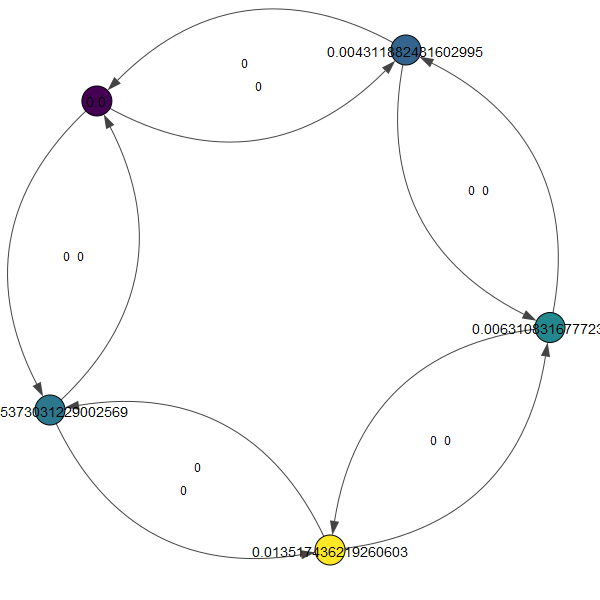
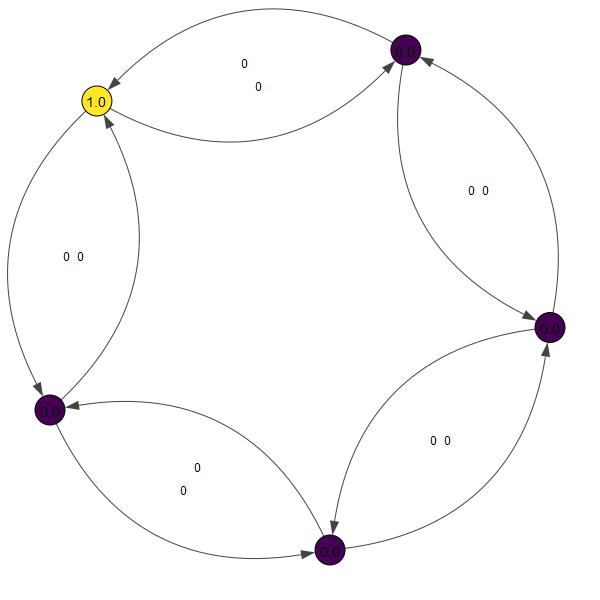
planning works in single action grid environment

diff --git a/main.py b/main.py
@@ -13,10 +13,11 @@ from rooms import DONUT, GRANULAR_ROOM, SIMPLE_GRANULAR_ROOM
 
 exp = Experiment(
     name="loop",
-    graph="dloop",
+    graph="loop",
+    graph_normalize=False,
     plan_method=Reasoning.STP,
     starts=[0],
-    targets=[3],
+    targets=[4],
 )
 
 exp.run()
